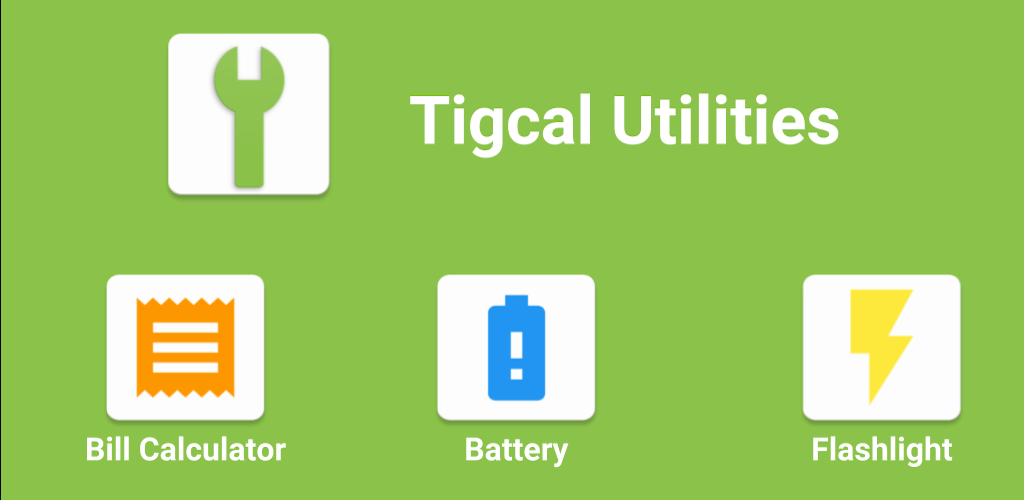
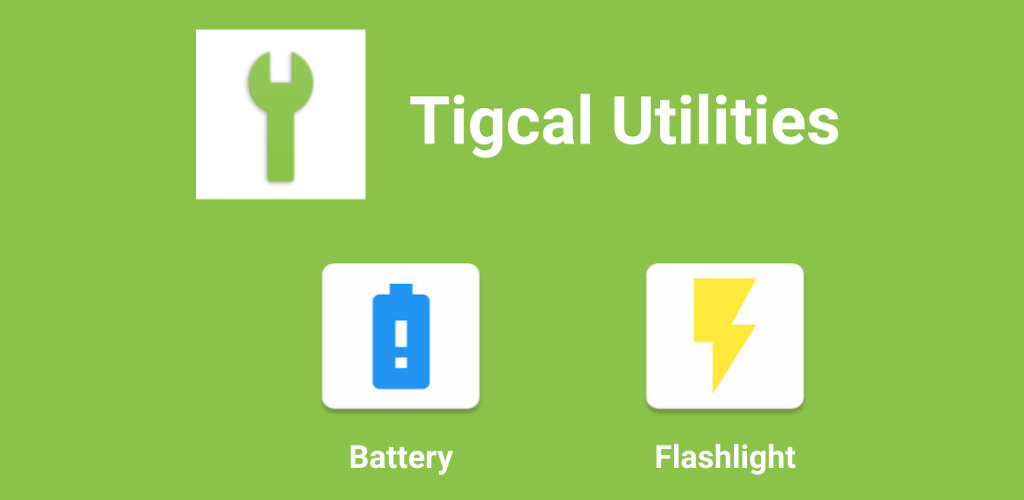
Updating feature graphic and README to reflect removal of Bill Calc

diff --git a/README.md b/README.md
@@ -3,16 +3,11 @@
 Tigcal Utilities is a collection of utility mini-apps. This app includes the following utilies:
 
   * Battery
-  * Bill Calculator
   * Flashlight
 
 ## Battery
 
 Battery app opens the Battery Usage Settings.
-
-## Bill Calculator
-
-Bill Calculator is an  app that allows users to split the electric bill based on total kWH used.
 
 ## Flashlight
 
